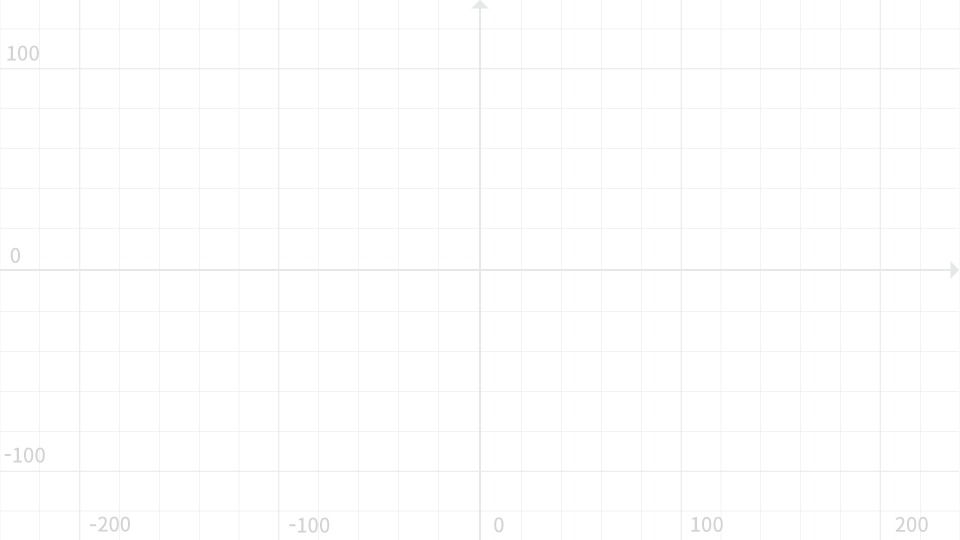
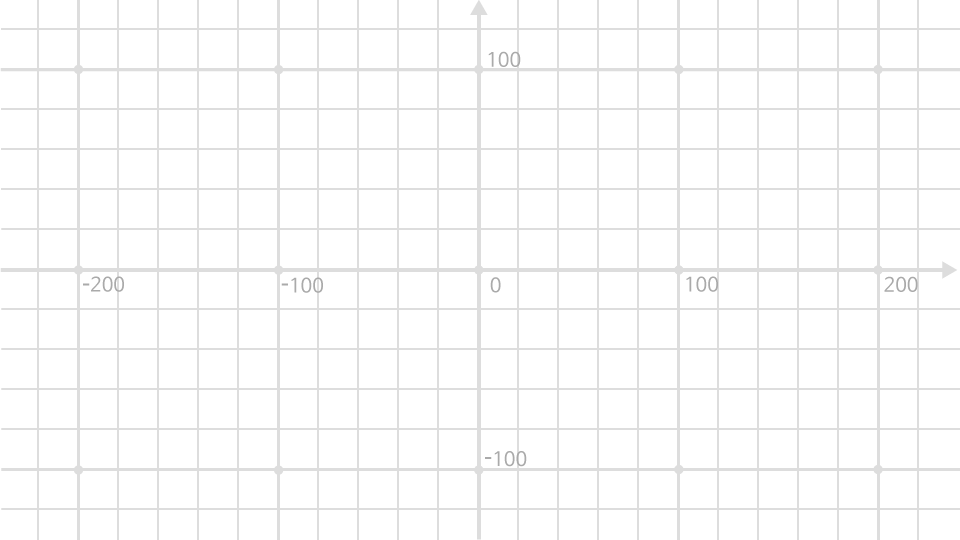
change stage grid background image

diff --git a/dist/entry.min.js b/dist/entry.min.js
@@ -942,7 +942,7 @@ if(b){var e=Entry.container;e.setInputValue(b);e.inputValue.complete=!0}}catch(f
 Entry.Stage.prototype.update=function(){Entry.engine.isState("stop")&&this.objectUpdated?(this.canvas.update(),this.objectUpdated=!1):this.canvas.update();this.inputField&&!this.inputField._isHidden&&this.inputField.render()};Entry.Stage.prototype.loadObject=function(a){var b=a.entity.object;this.getObjectContainerByScene(a.scene).addChild(b);this.canvas.update()};Entry.Stage.prototype.loadEntity=function(a){Entry.stage.getObjectContainerByScene(a.parent.scene).addChild(a.object);this.sortZorder()};
 Entry.Stage.prototype.unloadEntity=function(a){Entry.stage.getObjectContainerByScene(a.parent.scene).removeChild(a.object)};Entry.Stage.prototype.loadVariable=function(a){var b=a.view_;this.variables[a.id]=b;this.variableContainer.addChild(b);this.canvas.update()};Entry.Stage.prototype.removeVariable=function(a){this.variableContainer.removeChild(a.view_);this.canvas.update()};Entry.Stage.prototype.loadDialog=function(a){this.dialogContainer.addChild(a.object)};
 Entry.Stage.prototype.unloadDialog=function(a){this.dialogContainer.removeChild(a.object)};Entry.Stage.prototype.sortZorder=function(){for(var a=Entry.container.getCurrentObjects(),b=this.selectedObjectContainer,c=0,d=a.length-1;0<=d;d--){for(var e=a[d],f=e.entity,e=e.clonedEntities,g=0,h=e.length;g<h;g++)e[g].shape&&b.setChildIndex(e[g].shape,c++),b.setChildIndex(e[g].object,c++);f.shape&&b.setChildIndex(f.shape,c++);b.setChildIndex(f.object,c++)}};
-Entry.Stage.prototype.initCoordinator=function(){var a=new createjs.Container,b=new createjs.Bitmap(Entry.mediaFilePath+"workspace_coordinate_v1.png");b.scaleX=.5;b.scaleY=.5;b.x=-240;b.y=-135;a.addChild(b);this.canvas.addChild(a);a.visible=!1;this.coordinator=a};Entry.Stage.prototype.toggleCoordinator=function(){this.coordinator.visible=!this.coordinator.visible};Entry.Stage.prototype.selectObject=function(a){this.selectedObject=a?a:null;this.updateObject()};
+Entry.Stage.prototype.initCoordinator=function(){var a=new createjs.Container,b=new createjs.Bitmap(Entry.mediaFilePath+"workspace_coordinate.png");b.scaleX=.5;b.scaleY=.5;b.x=-240;b.y=-135;a.addChild(b);this.canvas.addChild(a);a.visible=!1;this.coordinator=a};Entry.Stage.prototype.toggleCoordinator=function(){this.coordinator.visible=!this.coordinator.visible};Entry.Stage.prototype.selectObject=function(a){this.selectedObject=a?a:null;this.updateObject()};
 Entry.Stage.prototype.initHandle=function(){this.handle=new EaselHandle(this.canvas);this.handle.setChangeListener(this,this.updateHandle);this.handle.setEditStartListener(this,this.startEdit);this.handle.setEditEndListener(this,this.endEdit)};
 Entry.Stage.prototype.updateObject=function(){this.handle.setDraggable(!0);if(!this.editEntity){var a=this.selectedObject;if(a&&a.entity.getVisible()){"textBox"==a.objectType?this.handle.toggleCenter(!1):this.handle.toggleCenter(!0);"free"==a.getRotateMethod()?this.handle.toggleRotation(!0):this.handle.toggleRotation(!1);this.handle.toggleDirection(!0);a.getLock()?(this.handle.toggleRotation(!1),this.handle.toggleDirection(!1),this.handle.toggleResize(!1),this.handle.toggleCenter(!1),this.handle.setDraggable(!1)):
 this.handle.toggleResize(!0);this.handle.setVisible(!0);a=a.entity;this.handle.setWidth(a.getScaleX()*a.getWidth());this.handle.setHeight(a.getScaleY()*a.getHeight());var b,c;if("textBox"==a.type)if(a.getLineBreak())b=a.regX*a.scaleX,c=-a.regY*a.scaleY;else{var d=a.getTextAlign();c=-a.regY*a.scaleY;switch(d){case Entry.TEXT_ALIGN_LEFT:b=-a.getWidth()/2*a.scaleX;break;case Entry.TEXT_ALIGN_CENTER:b=a.regX*a.scaleX;break;case Entry.TEXT_ALIGN_RIGHT:b=a.getWidth()/2*a.scaleX}}else b=(a.regX-a.width/

diff --git a/src/stage.js b/src/stage.js
@@ -261,7 +261,7 @@ Entry.Stage.prototype.sortZorder = function() {
  */
 Entry.Stage.prototype.initCoordinator = function() {
     var coordinator = new createjs.Container();
-    var img = new createjs.Bitmap(Entry.mediaFilePath + "workspace_coordinate_v1.png");
+    var img = new createjs.Bitmap(Entry.mediaFilePath + "workspace_coordinate.png");
     img.scaleX = 0.5;
     img.scaleY = 0.5;
     img.x = -240;

diff --git a/dist/entry.js b/dist/entry.js
@@ -10234,7 +10234,7 @@ Entry.Stage.prototype.sortZorder = function() {
   }
 };
 Entry.Stage.prototype.initCoordinator = function() {
-  var a = new createjs.Container, b = new createjs.Bitmap(Entry.mediaFilePath + "workspace_coordinate_v1.png");
+  var a = new createjs.Container, b = new createjs.Bitmap(Entry.mediaFilePath + "workspace_coordinate.png");
   b.scaleX = .5;
   b.scaleY = .5;
   b.x = -240;
